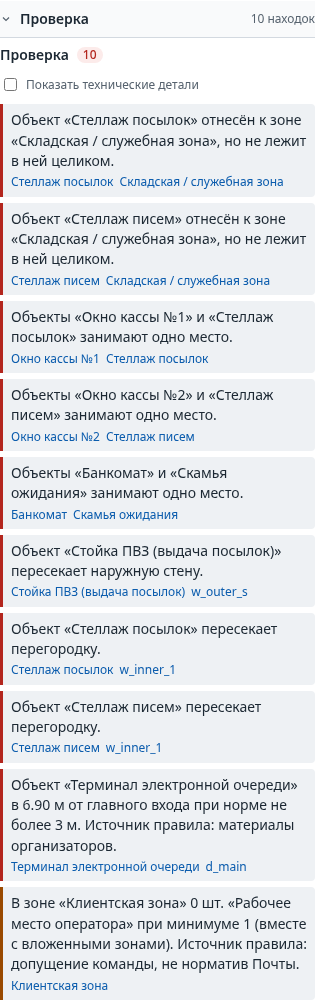
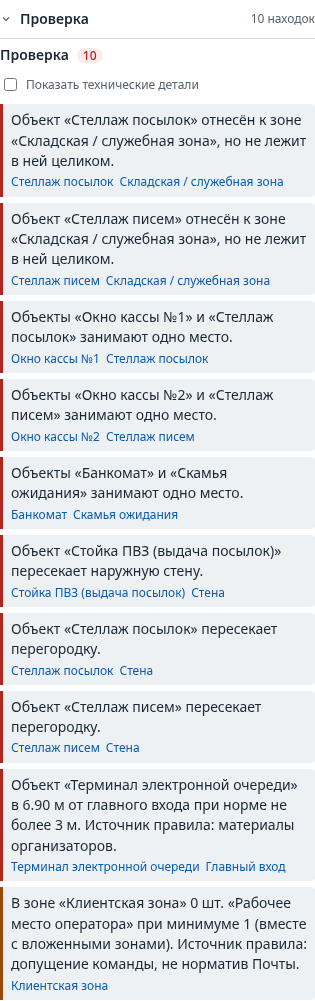
validation: называть инфраструктуру и связи словами

diff --git a/src/features/validation/ValidationPanel.test.tsx b/src/features/validation/ValidationPanel.test.tsx
@@ -13,6 +13,7 @@ import nested from '../../contracts/fixtures/nested.json';
 import type { Issue, PlanDocument } from '../../contracts/model';
 import { parsePlanDocument } from '../../contracts/schema';
 import type { ValidationIssue } from '../../domain/validation';
+import { RELATION_ISSUE_CODES, relationIssues } from '../../domain/relations';
 import { ValidationPanel } from './ValidationPanel';
 
 afterEach(cleanup);
@@ -68,6 +69,7 @@ describe('названия в находках', () => {
     expect(screen.getByText('zone:z_client')).not.toBeNull();
     expect(screen.getByText('rule_bench_min')).not.toBeNull();
     expect(screen.getByText('/objects/0/position')).not.toBeNull();
+    expect(screen.getByLabelText('Технические детали находки').getAttribute('translate')).toBe('no');
   });
 
   test('клик по находке ведёт к тому, о чём она', () => {
@@ -83,6 +85,42 @@ describe('названия в находках', () => {
     renderPanel([ghost], plan);
 
     expect(screen.getByRole('button', { name: 'eq_ghost' })).not.toBeNull();
+  });
+
+  test('известные стена и проём названы без raw id', () => {
+    const infrastructure: Issue = {
+      ...collision,
+      refs: [
+        { kind: 'wall', id: 'w_north' },
+        { kind: 'opening', id: 'op_entrance' },
+      ],
+    };
+    renderPanel([infrastructure], plan);
+
+    expect(screen.getByRole('button', { name: 'Стена' })).not.toBeNull();
+    expect(screen.getByRole('button', { name: 'Главный вход' })).not.toBeNull();
+    expect(screen.queryByText('w_north')).toBeNull();
+    expect(screen.queryByText('op_entrance')).toBeNull();
+  });
+
+  test('реальная находка связи называет объект, а не его id', () => {
+    const relocated: PlanDocument = {
+      ...plan,
+      objects: plan.objects.map((object) =>
+        object.id === 'eq_bench_1'
+          ? { ...object, position: [9.5, 7.9], zoneId: null }
+          : object,
+      ),
+    };
+    const finding = relationIssues(relocated).find(
+      (issue) => issue.code === RELATION_ISSUE_CODES.ZONE_UNASSIGNED,
+    );
+    if (finding === undefined) throw new Error('Ожидалась находка неназначенного объекта');
+
+    renderPanel([finding], relocated);
+
+    expect(screen.getByText('Объект «Скамья 1» не лежит целиком ни в одной зоне.')).not.toBeNull();
+    expect(screen.queryByText(/eq_bench_1/)).toBeNull();
   });
 
   test('без документа панель показывает id и не ломается', () => {

diff --git a/src/features/equipment/placement-pick.test.ts b/src/features/equipment/placement-pick.test.ts
@@ -31,6 +31,52 @@ describe('выбор существующего объекта под инстр
     expect(findPlacementPick(hidden, 'ot_workplace', [2, 2], 48)).toBeNull();
   });
 
+  test('запертый видимый слой не мешает выбрать существующий объект', () => {
+    const locked: PlanDocument = {
+      ...plan,
+      layers: plan.layers.map((layer) => ({ ...layer, locked: true })),
+    };
+
+    expect(findPlacementPick(locked, 'ot_workplace', [2, 2], 48)?.id).toBe('eq_work_1');
+  });
+
+  test('попадание считается по повёрнутому следу объекта', () => {
+    const first = plan.objects[0];
+    if (first === undefined) throw new Error('В фикстуре нет объекта');
+    const rotated: PlanDocument = {
+      ...plan,
+      objects: [{ ...first, position: [0, 0], size_m: [2, 1], rotation_deg: 45 }],
+    };
+
+    expect(findPlacementPick(rotated, first.typeId, [0.65, -0.65], 100)?.id).toBe(first.id);
+  });
+
+  test('из нескольких кандидатов в допуске выбирается ближайший, не последний', () => {
+    const first = plan.objects[0];
+    if (first === undefined) throw new Error('В фикстуре нет объекта');
+    const candidates: PlanDocument = {
+      ...plan,
+      objects: [
+        { ...first, id: 'eq_near', position: [0, 0], size_m: [0.1, 0.1] },
+        { ...first, id: 'eq_far', position: [0.15, 0], size_m: [0.1, 0.1] },
+      ],
+    };
+
+    expect(findPlacementPick(candidates, first.typeId, [0.07, 0], 100)?.id).toBe('eq_near');
+  });
+
+  test('ровно 8 px входят в допуск, больше — уже постановка', () => {
+    const first = plan.objects[0];
+    if (first === undefined) throw new Error('В фикстуре нет объекта');
+    const square: PlanDocument = {
+      ...plan,
+      objects: [{ ...first, position: [0, 0], size_m: [2, 2] }],
+    };
+
+    expect(findPlacementPick(square, first.typeId, [2, 0], 8)?.id).toBe(first.id);
+    expect(findPlacementPick(square, first.typeId, [2.001, 0], 8)).toBeNull();
+  });
+
   test('при равной близости выбирается верхний объект из конца массива', () => {
     const first = plan.objects[0];
     if (first === undefined) throw new Error('В фикстуре нет объекта');

diff --git a/src/domain/relations/index.ts b/src/domain/relations/index.ts
@@ -141,7 +141,7 @@ export function resolveZone(
       issues: unusable.map((zone) =>
         issue(
           RELATION_ISSUE_CODES.ZONE_GEOMETRY_UNUSABLE,
-          `Геометрия зоны «${zone.id}» не позволяет проверить вложение.`,
+          `Геометрия зоны «${zone.name}» не позволяет проверить вложение.`,
           [{ kind: 'zone', id: zone.id }],
         ),
       ),
@@ -155,7 +155,7 @@ export function resolveZone(
     const issues = [
       issue(
         RELATION_ISSUE_CODES.ZONE_UNASSIGNED,
-        `Объект «${object.id}» не лежит целиком ни в одной зоне.`,
+        `Объект «${object.label}» не лежит целиком ни в одной зоне.`,
         [ref],
         shape,
       ),
@@ -164,7 +164,7 @@ export function resolveZone(
       issues.push(
         issue(
           RELATION_ISSUE_CODES.ZONE_GEOMETRY_UNUSABLE,
-          `Геометрия зоны «${zone.id}» не позволяет проверить вложение.`,
+          `Геометрия зоны «${zone.name}» не позволяет проверить вложение.`,
           [{ kind: 'zone', id: zone.id }],
         ),
       );
@@ -181,8 +181,8 @@ export function resolveZone(
       issues: [
         issue(
           CONTRACT_ISSUE_CODES.ZONE_AMBIGUOUS,
-          `Объект «${object.id}» одинаково глубоко лежит в зонах: ${deepest
-            .map((entry) => entry.zone.id)
+          `Объект «${object.label}» одинаково глубоко лежит в зонах: ${deepest
+            .map((entry) => `«${entry.zone.name}»`)
             .join(', ')}.`,
           [ref, ...deepest.map((entry): Ref => ({ kind: 'zone', id: entry.zone.id }))],
           shape,
@@ -259,7 +259,7 @@ export function relationIssues(plan: PlanDocument): Issue[] {
     return brokenZones.map((zone) =>
       issue(
         CONTRACT_ISSUE_CODES.RELATIONS_STALE,
-        `Геометрия зоны «${zone.id}» невычислима: связи объектов с зонами требуют пересчёта.`,
+        `Геометрия зоны «${zone.name}» невычислима: связи объектов с зонами требуют пересчёта.`,
         [{ kind: 'zone', id: zone.id }],
         zone.polygon,
       ),

diff --git a/src/domain/plan-index.ts b/src/domain/plan-index.ts
@@ -5,14 +5,20 @@
  * person reading them: an object's label, a zone's name, a type's label. Each
  * panel used to search the plan its own way, with its own answer for «nothing
  * behind the id». This index is built once per document, looks up in O(1),
- * and answers the same everywhere: `null` when the plan has no such entity,
- * so the caller decides how to show a raw id — never a made-up name.
+ * and answers the same everywhere: entities without a custom name receive a
+ * human designation by kind; `null` means the plan has no such entity.
  */
 
-import type { Id, PlanDocument, Ref } from '../contracts/model';
+import type { Id, Opening, PlanDocument, Ref } from '../contracts/model';
+
+const OPENING_NAMES: Record<Opening['kind'], string> = {
+  entrance: 'Главный вход',
+  door: 'Дверь',
+  window: 'Окно',
+};
 
 export type PlanIndex = {
-  /** Human name of an entity, or null: walls and openings carry no name. */
+  /** Human name/designation of an entity, or null when the id is absent. */
   nameOf(ref: Ref): string | null;
   objectLabel(id: Id): string | null;
   zoneName(id: Id): string | null;
@@ -29,6 +35,8 @@ export function planIndex(plan: PlanDocument): PlanIndex {
   const objects = new Map(plan.objects.map((object) => [object.id, object.label]));
   const zones = new Map(plan.zones.map((zone) => [zone.id, zone.name]));
   const layers = new Map(plan.layers.map((layer) => [layer.id, layer.name]));
+  const walls = new Set(plan.walls.map((wall) => wall.id));
+  const openings = new Map(plan.openings.map((opening) => [opening.id, OPENING_NAMES[opening.kind]]));
   const objectTypes = new Map(plan.catalog.objectTypes.map((type) => [type.id, type.label]));
   const zoneTypes = new Map(plan.catalog.zoneTypes.map((type) => [type.id, type.label]));
   const get = (map: Map<Id, string>, id: Id): string | null => map.get(id) ?? null;
@@ -48,8 +56,10 @@ export function planIndex(plan: PlanDocument): PlanIndex {
           return get(layers, ref.id);
         case 'room':
           return plan.room.id === ref.id ? ROOM_NAME : null;
-        default:
-          return null;
+        case 'wall':
+          return walls.has(ref.id) ? 'Стена' : null;
+        case 'opening':
+          return get(openings, ref.id);
       }
     },
   };

diff --git a/src/domain/relations/relations.test.ts b/src/domain/relations/relations.test.ts
@@ -70,6 +70,8 @@ describe('назначение объекта зоне', () => {
     );
     expect(resolution.issues[0]?.polygon).toHaveLength(4);
     expect(resolution.issues[0]?.refs[0]?.id).toBe('eq_bench_1');
+    expect(resolution.issues[0]?.message).toContain('Скамья 1');
+    expect(resolution.issues[0]?.message).not.toContain('eq_bench_1');
   });
 });
 
@@ -95,6 +97,8 @@ describe('подготовленный индекс зон (D-205)', () => {
     const resolution = resolveZone(objectOf(plan, 'eq_work_1'), [...plan.zones, bowtie], prepared);
     expect(resolution.zoneId).toBeNull();
     expect(resolution.issues.map((entry) => entry.code)).toEqual([RELATION_ISSUE_CODES.ZONE_GEOMETRY_UNUSABLE]);
+    expect(resolution.issues[0]?.message).toContain('Клиентская зона');
+    expect(resolution.issues[0]?.message).not.toContain('z_client');
   });
 });
 
@@ -111,7 +115,10 @@ describe('неоднозначность и цикл', () => {
     expect(resolution.issues.map((entry) => entry.code)).toEqual([
       CONTRACT_ISSUE_CODES.ZONE_AMBIGUOUS,
     ]);
-    expect(resolution.issues[0]?.message).toContain('z_client_b');
+    expect(resolution.issues[0]?.message).toContain('Рабочее место 1');
+    expect(resolution.issues[0]?.message).toContain('Вторая клиентская зона');
+    expect(resolution.issues[0]?.message).not.toContain('eq_work_1');
+    expect(resolution.issues[0]?.message).not.toContain('z_client_b');
   });
 
   test('цикл parentId обнаруживается и останавливает пересчёт', () => {

diff --git a/src/domain/plan-index.test.ts b/src/domain/plan-index.test.ts
@@ -32,12 +32,14 @@ describe('индекс «id → название» (D-202)', () => {
     );
   });
 
-  test('чего нет — null, а не выдуманное имя; у стен и проёмов имени нет', () => {
+  test('известные стены и проёмы получают рабочее название, отсутствующие — null', () => {
     expect(index.objectLabel('eq_ghost')).toBeNull();
     expect(index.zoneName('z_ghost')).toBeNull();
     expect(index.nameOf({ kind: 'room', id: 'room_other' })).toBeNull();
-    expect(index.nameOf({ kind: 'wall', id: plan.walls[0]?.id ?? 'w_1' })).toBeNull();
-    expect(index.nameOf({ kind: 'opening', id: 'op_1' })).toBeNull();
+    expect(index.nameOf({ kind: 'wall', id: plan.walls[0]!.id })).toBe('Стена');
+    expect(index.nameOf({ kind: 'opening', id: plan.openings[0]!.id })).toBe('Главный вход');
+    expect(index.nameOf({ kind: 'wall', id: 'w_ghost' })).toBeNull();
+    expect(index.nameOf({ kind: 'opening', id: 'op_ghost' })).toBeNull();
     // Индекс над ничем — для панели без документа.
     expect(EMPTY_INDEX.nameOf({ kind: 'zone', id: plan.zones[0]!.id })).toBeNull();
     expect(EMPTY_INDEX.objectTypeLabel(plan.objects[0]!.typeId)).toBeNull();

diff --git a/src/features/validation/ValidationPanel.tsx b/src/features/validation/ValidationPanel.tsx
@@ -95,7 +95,7 @@ export function ValidationPanel({
 
 function TechnicalDetails({ issue }: { issue: ValidationIssue }): React.JSX.Element {
   return (
-    <dl className="issues__technical" aria-label="Технические детали находки">
+    <dl className="issues__technical" aria-label="Технические детали находки" translate="no">
       <div>
         <dt>Код</dt>
         <dd><code>{issue.code}</code></dd>

diff --git a/docs/decisions.md b/docs/decisions.md
@@ -216,4 +216,4 @@
 | D-221 | 2026-09-20 | Поиск места ведёт два бюджета: `maxCells` ограничивает сырой обход bounding box, `maxProbes` расходуется только на клетки внутри зон, где тип уместен, и на геометрические пробы. Точки вне уместных зон отбрасываются до второго счётчика | В большой вогнутой зоне её пустая часть bounding box съедала 60 000 клеток до достижения самой зоны, и ассистент ложно отвечал «места нет» | Снять общий предел — патологический полигон может повесить запрос; считать всё одним пределом — сохраняет ложный отрицательный ответ; заранее растеризовать полигоны — больше памяти и сложнее текущего потокового обхода |
 | D-222 | 2026-09-20 | Необязательный свободный текст называется «пожеланием к варианту». При LLM он может направить выбор только среди `reasonCodes` и `candidates`, уже полученных расчётом; системный промпт запрещает добавлять факты, числа, поля и менять правила, а `verifyExplanation` оставляет прежний строгий шлюз. Без модели панель явно пишет, что пожелание не учитывалось | Поле называлось «Вопрос», хотя контракт ответа не допускает свободного текста: модель могла лишь выбрать код причины и вариант. Это обещало пользователю больше, чем продукт безопасно делает, и не объясняло полезный сценарий вроде «ближе ко входу» | Разрешить модели свободный ответ — непроверяемые утверждения и числа; убрать поле — теряется полезное ранжирование рассчитанных вариантов; пытаться разбирать естественный язык локально — новый неоднозначный расчёт без нормативной основы |
 | D-223 | 2026-09-21 | Под инструментом `object.place` нажатие внутри видимого объекта выбранного типа или не дальше 8 экранных пикселей от его повёрнутого следа выбирает существующий объект и не вызывает `object.put`; допуск переводится в метры через `viewport.scale`, при равной дистанции побеждает последний объект массива (верхний на холсте), инструмент остаётся активным | Повторный клик по уже поставленному стеллажу создавал точный дубль и новую находку коллизии, хотя намерение рядом с объектом — вернуться к его карточке. Экранный допуск одинаков при любом zoom; выбор без команды не меняет документ, историю и инвентаризацию | Включить обычный `picking` при установке — любой тип перехватывал бы постановку и вернул дефект D-147 с ручками; переключать на «Выбор» — мешает ставить серию объектов; увеличить hit-area Konva — зависит от порядка событий слоя и не работает рядом за границей фигуры |
-| D-224 | 2026-09-21 | Панель «Проверка» по умолчанию показывает сообщение, рабочие названия ссылок и понятный источник правила; общий флажок «Показать технические детали» раскрывает код находки, пары `kind:id`, `ruleId` и `path`. Неизвестный `id` остаётся основным названием. `ruleIds` передаются структурированно через локальный `ValidationIssue = Issue & { ruleIds?: Id[] }`, состояние флажка живёт только в React и общий контракт/JSON не меняет | Коды `OBJECT_COLLISION`, сырые `eq_*` и `rule_*` в каждой строке заслоняли объяснение для сотрудника, но нужны разработчику при диагностике. Прогрессивное раскрытие сохраняет оба сценария, а отдельное поле не требует разбирать текст сообщения | Удалить техданные совсем — усложняет диагностику; отдельный флажок на каждой строке — повторяет управление и раздувает список; прятать источник нормы вместе с `ruleId` — сотрудник потеряет различие материалов организаторов и допущения команды; извлекать `ruleId` регулярным выражением из сообщения — хрупкая связь UI с русским текстом |
+| D-224 | 2026-09-21 | Панель «Проверка» по умолчанию показывает сообщение, рабочие названия ссылок и понятный источник правила; известные стены и проёмы без собственного имени обозначает словами «Стена», «Главный вход», «Дверь» или «Окно», а сообщения о связях используют подпись объекта и название зоны. Общий флажок «Показать технические детали» раскрывает код находки, пары `kind:id`, `ruleId` и `path`; весь блок помечен `translate="no"`. Неизвестный `id` остаётся основным названием. `ruleIds` передаются структурированно через локальный `ValidationIssue = Issue & { ruleIds?: Id[] }`, состояние флажка живёт только в React и общий контракт/JSON не меняет | Коды `OBJECT_COLLISION`, сырые `eq_*`, `w_*`, `d_*` и `rule_*` в каждой строке заслоняли объяснение для сотрудника, но нужны разработчику при диагностике. Прогрессивное раскрытие сохраняет оба сценария, а отдельное поле не требует разбирать текст сообщения | Удалить техданные совсем — усложняет диагностику; отдельный флажок на каждой строке — повторяет управление и раздувает список; прятать источник нормы вместе с `ruleId` — сотрудник потеряет различие материалов организаторов и допущения команды; извлекать `ruleId` регулярным выражением из сообщения — хрупкая связь UI с русским текстом |

diff --git a/docs/tz-compliance.md b/docs/tz-compliance.md
@@ -70,7 +70,7 @@
 | П2 | Корректность связей объектов с зонами | `resolveZone` плюс код `OBJECT_OUTSIDE_ZONE` в `validatePlan`: заявленная зона, которая не содержит объект целиком | `relations.test.ts`: пересечение границы поднимает к родителю; `example-plan-checks.test.ts`: `eq_rack_1/2` дают `OBJECT_OUTSIDE_ZONE` и не повторяются `ZONE_UNASSIGNED`, пример без правил команды — ровно 8 находок; `validation.test.ts`: объект без заявленной зоны сохраняет `ZONE_UNASSIGNED`, `ZONE_AMBIGUOUS` не снимается (D-157) | ✅ (G02+IO02+V01): расхождение «заявлено ↔ посчитано» находится и называет оба id, одна проблема — одна находка; подсветка на плане — V02 |
 | П3 | Объекты за пределами помещения | `contains` с проверкой всего отпечатка; коды `OBJECT_OUTSIDE_ROOM`, `ZONE_OUTSIDE_ROOM`, `ZONE_OUTSIDE_PARENT` | `geometry.test.ts`: угол в выемке не считается вложенным; `validation.test.ts`: объект и зона за границей помещения, вложенная зона вне родителя | ✅ (G01+V01): нарушение найдено и несёт полигон для подсветки; показ списком — V02 |
 | П4 | Пересечения физических объектов | `objectsShareSpace` с учётом высоты, флаг `physical` из справочника, отдельный код `OBJECT_HITS_WALL` для стен | `geometry.test.ts`: касание не коллизия, камера над столом не коллизия; `example-plan-checks.test.ts`: три пары примера и стеллажи через перегородку `w_inner_1`; `validation.test.ts`: нефизический тип на том же месте коллизией не считается | ✅ (G01+V01): три пары примера и пересечение перегородки находятся; подсветка — V02 |
-| П5 | Результат помогает найти проблемный объект или участок | Каждая находка несёт `refs` и полигон; `ValidationPanel` показывает сообщение и рабочие названия без кодов/id по умолчанию, а флажок раскрывает код, `kind:id`, `ruleId` и путь (D-224). Ссылки остаются кнопками перехода; `IssueLayer` без клика ставит маркер с числом находок и цветом серьёзности, а выделенную сущность заливает и обводит сплошным контуром с белой каймой (D-117, D-157). Холст приводит вид к объекту и обводит его на 1,6 с (`src/features/editor/focus.ts`, D-129) | `ValidationPanel.test.tsx`: обычный/технический режимы, неизвестный id, переход и сортировка; `validation.test.ts`: источник правила виден, raw rule id вынесен в `ruleIds`; `tests/e2e/issues-on-plan.spec.ts`: 8 маркеров на 10 находок примера, клик усиливает нужный; `tests/e2e/issue-highlight.spec.ts`: код скрыт до флажка, затем видны код и `object:id`, переход красит слой, Escape гасит; `tests/e2e/focus.spec.ts`: удалённый объект приводится в кадр | ✅ (V01+V02+U02): понятный список без dev-шума, диагностика по запросу, маркеры и переход к месту |
+| П5 | Результат помогает найти проблемный объект или участок | Каждая находка несёт `refs` и полигон; `ValidationPanel` показывает сообщение и рабочие названия без кодов/id по умолчанию, включая обозначения стен/проёмов и названия в диагностике связей, а флажок раскрывает код, `kind:id`, `ruleId` и путь (D-224). Ссылки остаются кнопками перехода; `IssueLayer` без клика ставит маркер с числом находок и цветом серьёзности, а выделенную сущность заливает и обводит сплошным контуром с белой каймой (D-117, D-157). Холст приводит вид к объекту и обводит его на 1,6 с (`src/features/editor/focus.ts`, D-129) | `ValidationPanel.test.tsx`: обычный/технический режимы, известные стена/проём, реальная находка связи, неизвестный id, переход и сортировка; `plan-index.test.ts` и `relations.test.ts`: рабочие обозначения без raw id; `validation.test.ts`: источник правила виден, raw rule id вынесен в `ruleIds`; `tests/e2e/issues-on-plan.spec.ts`: 8 маркеров на 10 находок примера, клик усиливает нужный; `tests/e2e/issue-highlight.spec.ts`: wall/opening id и код скрыты до флажка, затем видны технические значения, переход красит слой, Escape гасит; `tests/e2e/focus.spec.ts`: удалённый объект приводится в кадр | ✅ (V01+V02+U02): понятный список без dev-шума, диагностика по запросу, маркеры и переход к месту |
 | П6 | Повторная проверка после исправления | `validatePlan` — чистая функция от документа, поэтому проверка повторяется на каждом состоянии | `example-plan-checks.test.ts`: отодвинутый стеллаж снимает все свои коды, а вторая пара и терминал остаются; терминал у входа снимает нарушение расстояния | ✅ (V01+V02): `validatePlan` пересчитывается на каждое изменение документа (`useMemo` по `document` в `App.tsx`), кнопка не нужна — исправление снимает находку сразу; `example-plan-checks.test.ts`: отодвинутый стеллаж снимает свои коды |
 | П7 | Сохранение и загрузка сохраняют геометрию, зоны, оборудование, `id`, атрибуты, связи | `schemaVersion: 1`, снимок каталога в файле (D-012), канонический писатель (D-022) | `codec.test.ts`; Q01 `round-trip.spec.ts` и `catalog-extension.spec.ts`: весь JSON равен после повторного открытия/сохранения, включая новый тип и атрибуты; `format.test.ts` «поля вне формата названы»: чужое поле файла попадает в `dropped`, `attributes`/`extensions` — нет; e2e `files.spec.ts` «поле вне формата названо при открытии» (D-201) | ✅ (IO01+IO03+Q01): unit и сквозной браузерный round-trip |
 

diff --git a/src/features/validation/README.md b/src/features/validation/README.md
@@ -3,7 +3,7 @@
 Список нарушений, повторная проверка, подсветка и переход к проблеме.
 
 **Владелец:** поток 3. **Пакеты:** V02.
-Реализовано пакетом V02: список находок `validatePlan`, ошибки выше предупреждений, переход к объекту по `id`. В обычном режиме находка показывает сообщение, понятное название объекта, зоны или слоя и источник правила; код, `kind:id`, `ruleId` и путь раскрываются общим флажком «Показать технические детали» (D-224). Неизвестный `id` остаётся видимым как единственное доступное имя (D-124). `IssueLayer.tsx` без клика ставит маркер с числом находок и цветом серьёзности у каждой сущности, которую находка называет первой, а полигоны находок выделенной сущности заливает и обводит сплошным контуром с белой каймой; отбор — `issue-highlight.ts` (`highlightsFor`, `issueMarkers`, `markerAnchor`; D-117, D-157). Маркеры — узлы Konva `name="issue-marker"`, e2e `tests/e2e/issues-on-plan.spec.ts` читает их через `window.Konva`.
+Реализовано пакетом V02: список находок `validatePlan`, ошибки выше предупреждений, переход к объекту по `id`. В обычном режиме находка показывает сообщение, понятное название объекта, зоны или слоя, обозначение стены/проёма и источник правила; сообщения диагностики связей также используют подписи объектов и названия зон. Код, `kind:id`, `ruleId` и путь раскрываются общим флажком «Показать технические детали» (D-224). Неизвестный `id` остаётся видимым как единственное доступное имя (D-124). `IssueLayer.tsx` без клика ставит маркер с числом находок и цветом серьёзности у каждой сущности, которую находка называет первой, а полигоны находок выделенной сущности заливает и обводит сплошным контуром с белой каймой; отбор — `issue-highlight.ts` (`highlightsFor`, `issueMarkers`, `markerAnchor`; D-117, D-157). Маркеры — узлы Konva `name="issue-marker"`, e2e `tests/e2e/issues-on-plan.spec.ts` читает их через `window.Konva`.
 
 ## Граница модуля
 
@@ -18,6 +18,6 @@
 
 Имена находок панель берёт из `planIndex(plan).nameOf(ref)` (`src/domain/plan-index`, D-202); своего `naming.ts` у модуля больше нет.
 
-**Проверки:** `ValidationPanel.test.tsx` (Vitest): понятные названия без технического шума по умолчанию, раскрытие кода/ссылок/правила/пути, неизвестный `id`, переход и порядок «ошибки раньше предупреждений»; `validation.test.ts` отделяет источник правила от его технического `id`; `tests/e2e/issue-highlight.spec.ts` проверяет оба режима и переход на план.
+**Проверки:** `ValidationPanel.test.tsx` (Vitest): понятные названия без технического шума по умолчанию, известные стены/проёмы, реальная находка связи, раскрытие кода/ссылок/правила/пути, неизвестный `id`, переход и порядок «ошибки раньше предупреждений»; `plan-index.test.ts`, `relations.test.ts` и `validation.test.ts` проверяют рабочие названия и отделяют источник правила от его технического `id`; `tests/e2e/issue-highlight.spec.ts` проверяет оба режима и переход на план.
 
 [Карта проекта и владельцы](../../../docs/project-structure.md) · [Контракты](../../../docs/contracts-v1.md) · [План задач](../../../docs/plans/2026-09-16-parallel-plan.md)
